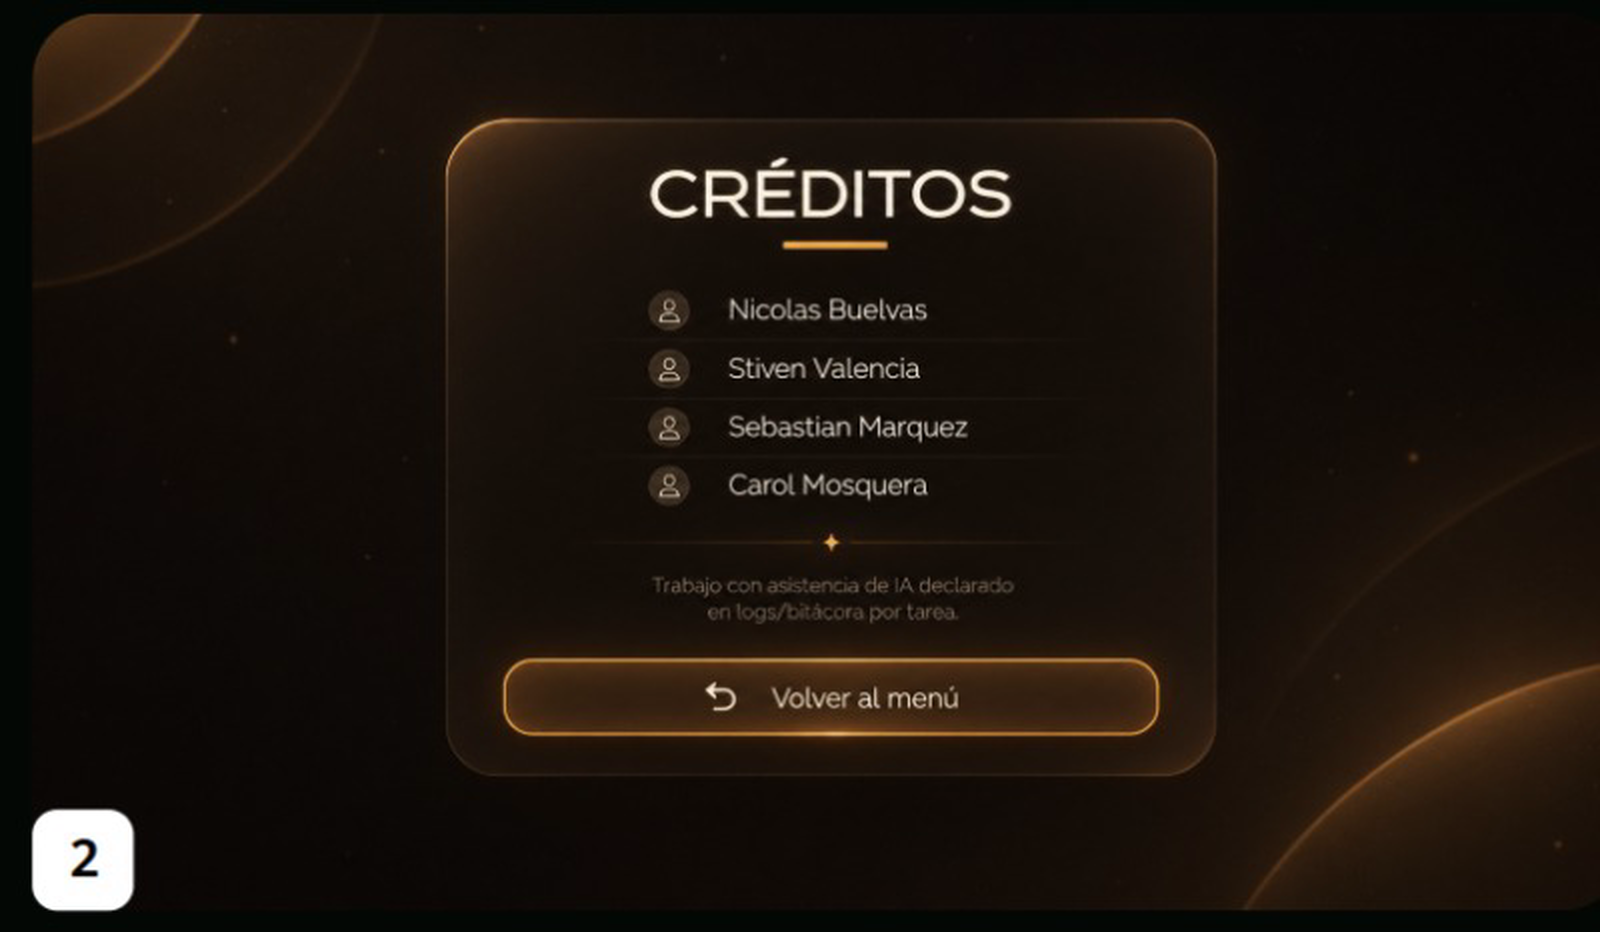
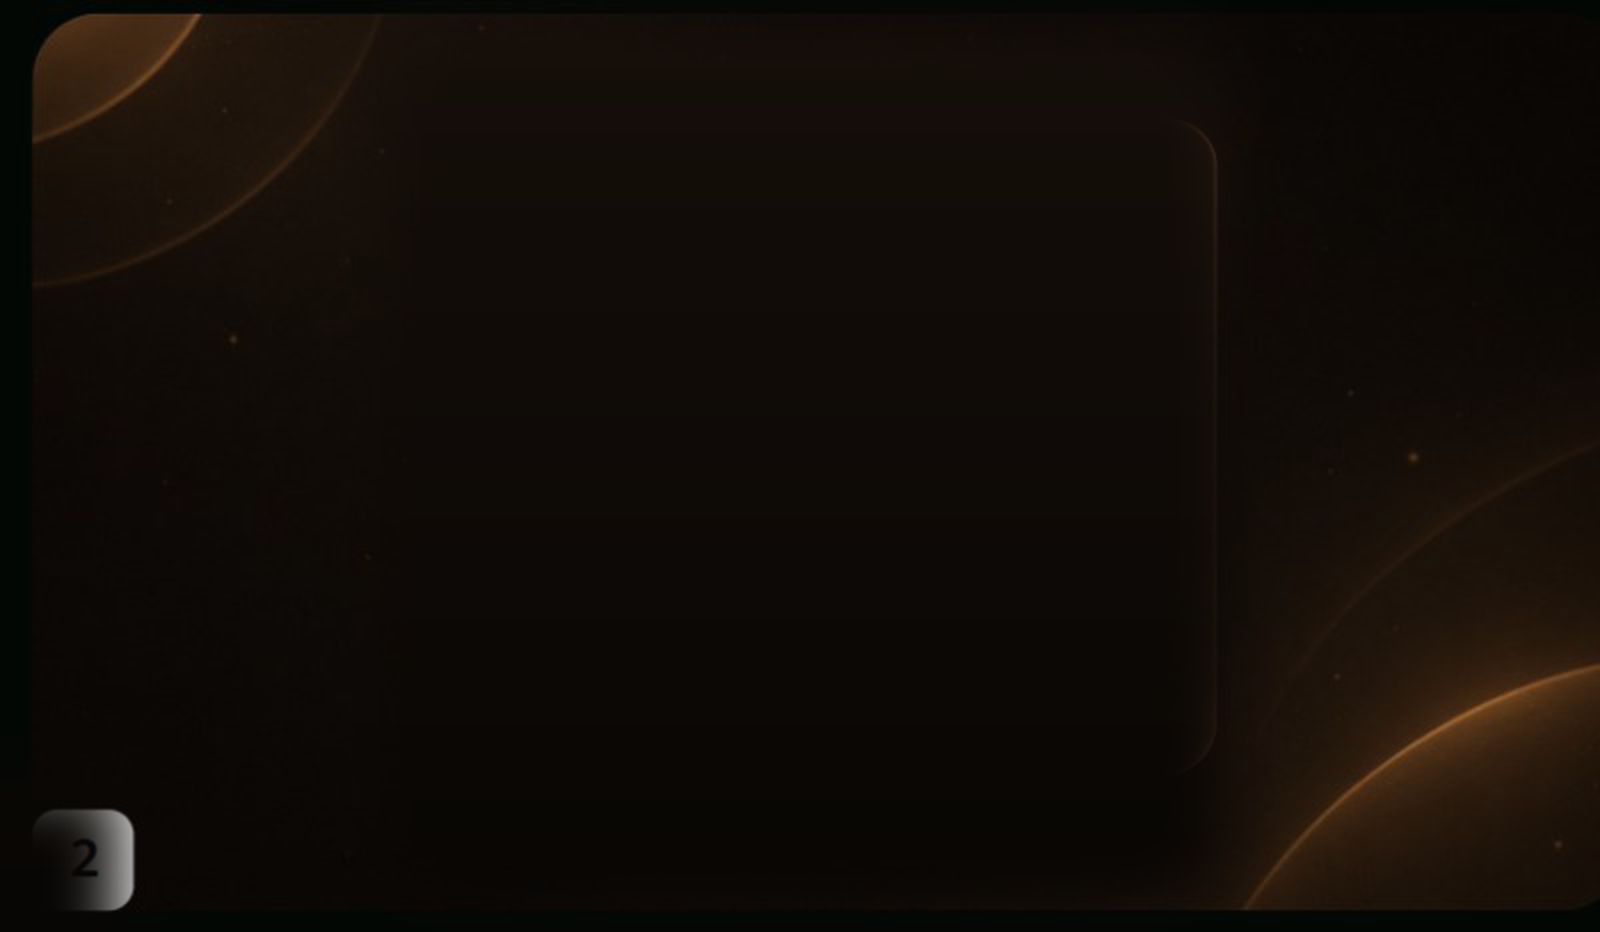
fix(ui): remove baked-in UI from backgrounds and support contextual back navigation

diff --git a/logs/nicolas-buelvas.md b/logs/nicolas-buelvas.md
@@ -241,3 +241,17 @@ Files: scenes/main_menu.tscn, ui/options_menu.tscn, scenes/credits.tscn, ui/them
 Change: Integración de artes de fondo de alta definición (campo de papas para menú principal y opciones, espacio orbital dorado para créditos). Rework de tarjetas con borde dorado brillante (glow amber) de 2px, esquinas redondeadas de 22px y sombra ámbar. Botones principales estilo píldora dorada con iconos táctiles (▶ Nueva partida, ⚙ Opciones, ➔ Salir, ↶ Volver al menú) y slots oscuros para configuración de volumen y pantalla. Créditos estructurados según Opción 2 con avatares de integrantes y separador de diamante.
 Commit: PENDING
 Notes: Verificado con tools/ui_check.gd (41/41 PASS) y systems/tests/heat_system_test.gd (32/32 PASS).
+
+
+---
+
+## AI-IAdashems-NB-000019
+
+Timestamp: N/A
+Participant: NB (Nicolas Buelvas)
+Task: Limpieza de UI horneada en texturas y retorno contextual de opciones a pausa
+Type: AI_ASSISTED
+Files: art/d-ui/menu_background.png, art/d-ui/options_background.png, art/d-ui/credits_opt2_bg.png, ui/options_menu.gd, ui/pause_menu.gd, scenes/main_menu.gd
+Change: Eliminación de las tarjetas y textos estáticos antiguos horneados en las imágenes de fondo mediante difuminado y composición limpia, dejando únicamente la UI interactiva de Godot. Actualización del menú de opciones con señal back_requested para integrarse como submenú tanto en el menú principal como en el menú de pausa durante el juego: al abrir opciones desde la pausa, el botón Volver regresa a la pausa sin reiniciar ni destruir la partida.
+Commit: PENDING
+Notes: Verificado con tools/ui_check.gd (41/41 PASS) y systems/tests/heat_system_test.gd (32/32 PASS).

diff --git a/logs/INDICE_LOGS.md b/logs/INDICE_LOGS.md
@@ -7,12 +7,12 @@
 
 | Integrante | Archivo | Entradas | Última entrada | Hora última |
 | :--- | :--- | --: | :--- | :--- |
-| Nicolas Buelvas | [nicolas-buelvas.md](nicolas-buelvas.md) | 18 | AI-IAdashems-NB-000018 | N/A |
+| Nicolas Buelvas | [nicolas-buelvas.md](nicolas-buelvas.md) | 19 | AI-IAdashems-NB-000019 | N/A |
 | Stiven Valencia | [stiven-valencia.md](stiven-valencia.md) | 12 | AI-IAdashems-SV-000012 | N/A |
 | Sebastian Marquez | [sebastian-marquez.md](sebastian-marquez.md) | 7 | AI-IAdashems-SM-000007 | 2026-10-10T01:12:57-05:00 |
 | Carol Mosquera | [carol-mosquera.md](carol-mosquera.md) | 0 | — | — |
 
-**Total de entradas:** 37
+**Total de entradas:** 38
 
 ## Cómo agregar tu log
 
